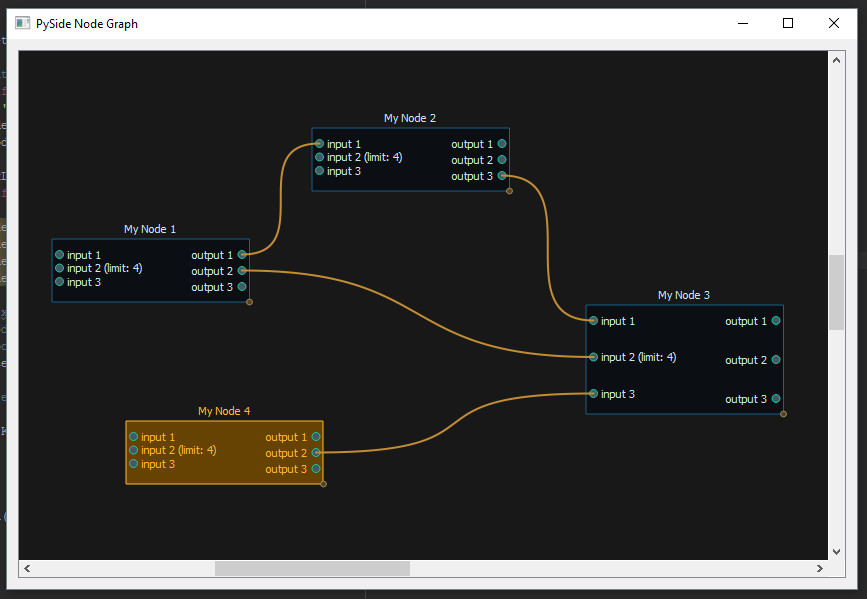
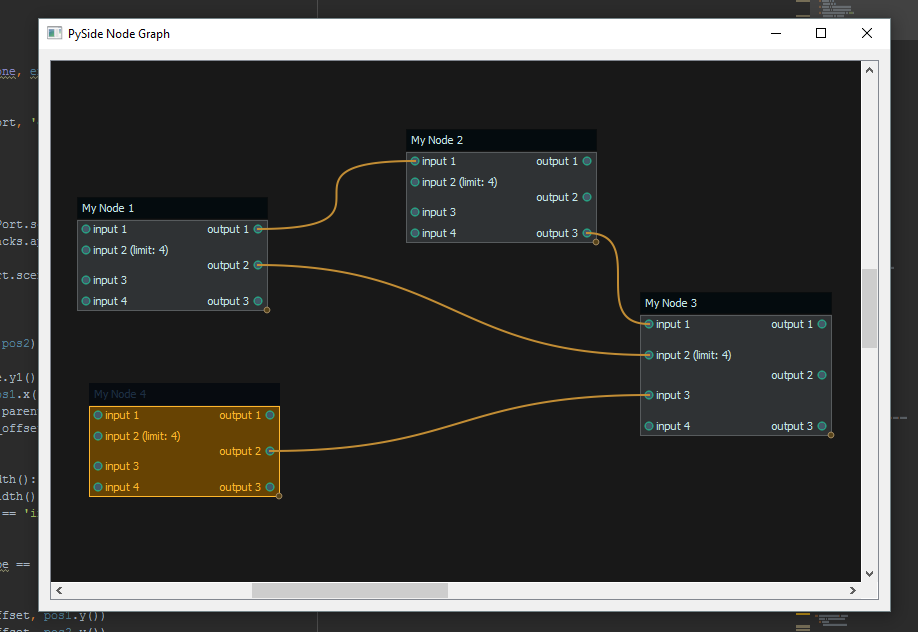
Updated Screencap - addressed a few bugs. - added new screen shot

diff --git a/pySideNodeGraph.py b/pySideNodeGraph.py
@@ -299,9 +299,8 @@ class NodeItem(BaseRectItem):
         self.setFlags(self.ItemIsSelectable | self.ItemIsMovable)
         # node
         self._text_bg_item = NodeTextBackground(self)
-        self._text_bg_item.set_node_color('#040b0e', '#0a0d0e')
         self._text_item = QtGui.QGraphicsTextItem(name, self._text_bg_item)
-        self._color_text = '#C4E8EB'
+        self._color_text = '#6b7781'
         self._width = 150
         self._height = 100
 
@@ -328,21 +327,21 @@ class NodeItem(BaseRectItem):
 
     def paint(self, painter, option, widget):
         if self.isSelected():
+            self._text_bg_item.set_node_color('#070b10', '#070b10')
             rect = self.rect()
             painter.setRenderHint(painter.Antialiasing, self._antialiasing)
             painter.setBrush(QtGui.QColor('#674303'))
             painter.setPen(QtGui.QPen(QtGui.QColor('#ffb72c'), 1))
             painter.drawRect(rect.x(), rect.y(), rect.width(), rect.height())
             text_color = QtGui.QColor('#ffb72c')
+            self._text_item.setDefaultTextColor(QtGui.QColor('#1d2e43'))
         else:
-            self._color_bg = '#2F3234'
-            self._color_border = '#575B5D'
             super(NodeItem, self).paint(painter, option, widget)
+            self._text_bg_item.set_node_color('#040b0e', '#0a0d0e')
             text_color = QtGui.QColor(self._color_text)
+            self._text_item.setDefaultTextColor(text_color)
 
-        texts_items = [self._text_item]
-        texts_items += self._outputsTexts
-        texts_items += self._inputsTexts
+        texts_items = self._inputsTexts + self._outputsTexts
         for text in texts_items:
             text.setDefaultTextColor(text_color)
 
@@ -372,7 +371,7 @@ class NodeItem(BaseRectItem):
     def _add_port(self, name, type, limit):
         port = PortItem(self, name, type, limit)
         text = QtGui.QGraphicsTextItem(port._name, self)
-        text.setDefaultTextColor(QtGui.QColor('#5ED79F'))
+        text.setDefaultTextColor(QtGui.QColor(self._color_text))
         font = text.font()
         font.setPointSize(8)
         text.setFont(font)
